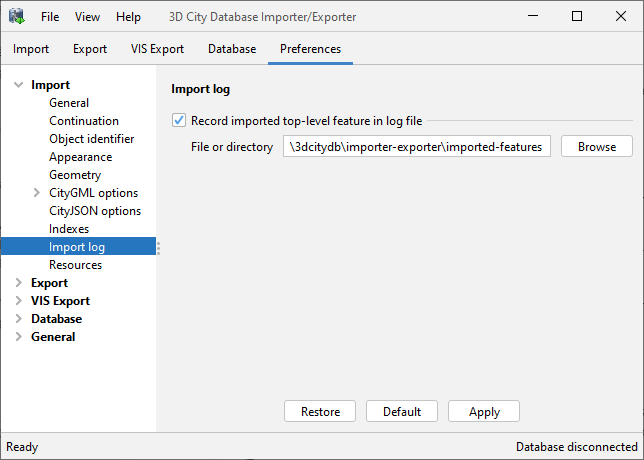
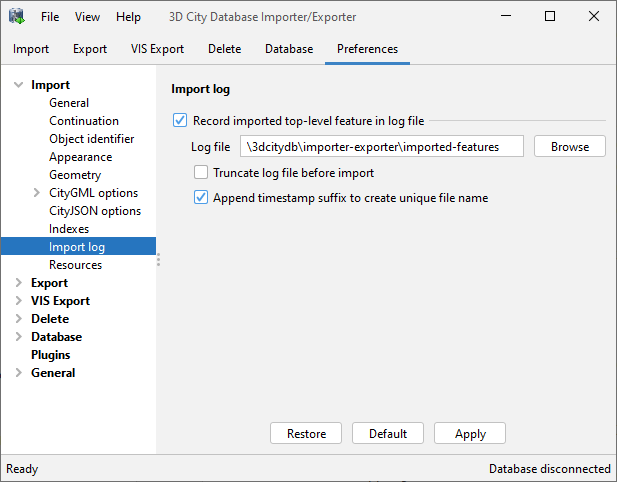
documented latest changes of Importer/Exporter

diff --git a/source/conf.py b/source/conf.py
@@ -64,9 +64,9 @@ author = '3DCityDB Team'
 # built documents.
 #
 # The short X.Y version.
-version = '2021.1'
+version = '2021.2'
 # The full version, including alpha/beta/rc tags.
-release = '2021.1.0'
+release = '2021.2.0'
 
 # The language for content autogenerated by Sphinx. Refer to documentation
 # for a list of supported languages.

diff --git a/source/impexp/cli/import.rst b/source/impexp/cli/import.rst
@@ -7,25 +7,26 @@ Import command
 
 .. code-block:: bash
 
-   impexp import [-hV] [--ade-extensions=<folder>] [-c=<file>]
-                 [--import-log=<file>] [--input-encoding=<encoding>]
-                 [--log-file=<file>] [--log-level=<level>]
-                 [--pid-file=<file>] [--plugins=<folder>]
-                 [--use-plugin=<plugin[=true|false]>[,<plugin[=true|false]
-                 >...]]... [--worker-threads=<threads[,max]>]
-                 [[--creation-date=<mode>] [--termination-date=<mode>]
-                 [--lineage=<lineage>] [--updating-person=<name>]
-                 [--reason-for-update=<reason>] [--use-metadata-from-file]]
-                 [[[-t=<[prefix:]name>[,<[prefix:]name>...]]...
-                 [--namespace=<prefix=name>[,<prefix=name>...]]...] [-i=<id>
-                 [,<id>...] [-i=<id>[,<id>...]]...] [-b=<minx,miny,maxx,maxy
-                 [,srid]> [--bbox-mode=<mode>]] [[--count=<count>]
+   impexp import [-hV] [--[no-]fail-fast] [--ade-extensions=<folder>]
+                 [-c=<file>] [--import-log=<file>]
+                 [--input-encoding=<encoding>] [--log-file=<file>]
+                 [--log-level=<level>] [--pid-file=<file>]
+                 [--plugins=<folder>] [--use-plugin=<plugin[=true|false]>[,
+                 <plugin[=true|false]>...]]... [--worker-threads=<threads[,
+                 max]>] [[--creation-date=<mode>]
+                 [--termination-date=<mode>] [--lineage=<lineage>]
+                 [--updating-person=<name>] [--reason-for-update=<reason>]
+                 [--use-metadata-from-file]] [[[-t=<[prefix:]name>[,<
+                 [prefix:]name>...]]... [--namespace=<prefix=name>[,
+                 <prefix=name>...]]...] [-i=<id>[,<id>...] [-i=<id>[,
+                 <id>...]]...] [-b=<minx,miny,maxx,maxy[,srid]>
+                 [--bbox-mode=<mode>]] [[--count=<count>]
                  [--start-index=<index>]] [[--no-appearance]]] [-f=<file>
                  [-m=<mode>] [-w] [[-n=<name>] [-I=<index>] [--[no-]header]
                  [-D=<string>] [-Q=<char>] [--quote-escape=<char>]
                  [-M=<char>] [--csv-encoding=<encoding>]]] [[-T=<database>]
-                 -H=<host> [-P=<port>] -d=<name> [-S=<schema>] -u=<name> [-p
-                 [=<password>]]] [@<filename>...] <file>...
+                 [-H=<host>] [-P=<port>] [-d=<name>] [-S=<schema>]
+                 [-u=<name>] [-p[=<password>]]] [@<filename>...] <file>...
 
 **Description**
 
@@ -56,8 +57,14 @@ containing these settings.
 .. option:: --import-log=<file>
 
    If you want an import log to be created for all top-level features loaded in the database,
-   provide the path to the import log file with this option. More information about the
-   import log can be found in :numref:`impexp_import_preferences_import_log`.
+   provide the path to the import log file with this option. Note that log file will be *truncated*
+   in case it already exists. More information about the import log can be found in
+   :numref:`impexp_import_preferences_import_log`.
+
+.. option:: --[no-]fail-fast
+
+   Flag to indicate whether to fail fast on errors and to immediately cancel the import
+   process (default: true).
 
 .. option:: --worker-threads=<threads[,max]>
 

diff --git a/source/impexp/import-preferences/import-log.rst b/source/impexp/import-preferences/import-log.rst
@@ -10,7 +10,7 @@ imported features. Also, in case the import procedure aborts early
 (either requested by the user or caused by severe errors), not
 all input features might have been processed. To understand which
 top-level features were actually loaded into the database during an
-import session, the user can choose to let the Importer/Exporter create
+import session, a user can choose to let the Importer/Exporter create
 an *import log*.
 
 .. figure:: /media/impexp_import_preferences_log_fig.png
@@ -20,14 +20,25 @@ an *import log*.
    Import preferences – Import log.
 
 Simply enable the checkbox on this settings dialog to activate import
-logs (disabled per default). You additionally must provide a folder
-where the import log files will be created in. Either type the folder
-name manually or use the *Browse* button to open a file selection
-dialog. The timestamp of the import session is used to
-create unique filenames for the log files inside this folder
-according to following pattern:
+logs (disabled per default). You additionally must provide the full path
+to the log file that shall be used to record the imported features. Either type the
+file name manually or use the *Browse* button to open a file selection
+dialog. The following modes for creating the log file are supported:
 
-``imported-features-yyyy_MM_dd-HH_mm_ss_SSS.log``
+1. To ensure that every import operation uses a **unique file name** for the import
+   log, you can choose to let the import process append a timestamp of the form
+   ``yyyy-MM-dd_HH-mm-ss-SSS`` as suffix to the provided file name (default option).
+   This way, every import operation will automatically be recorded in a separate log file.
+   For example, when choosing ``import.log`` as file name, the import log will be
+   stored in:
+
+   ``import-yyyy-MM-dd_HH-mm-ss-SSS.log``
+
+2. When disabling the default option, all import operations are **logged into the same file**.
+   By default, new log entries are *appended* to the end of the file so that entries
+   from previous import operations are not lost. You can alternatively choose to *truncate* the log
+   file before every import operation by checking the corresponding option. Use
+   this option with care.
 
 The import log is a simple CSV file with one record (line) per imported
 top-level feature. The following figure shows an example.
@@ -59,7 +70,7 @@ the header line. The meaning of the fields is as follows.
    * - | CITYOBJECT_ID
      - | The value of the ID column (primary key) of the CITYOBJECT table where the feature was inserted.
    * - | GMLID_IN_FILE
-     - | The original object identifier of the feature in the input file (might differ in database due to import settings).
+     - | The original object identifier of the feature in the input file. Note: the GMLID in the database might differ from the original identifier due to import settings.
    * - | INPUT_FILE
      - | The path of the input file from which the feature was imported.
 

diff --git a/source/impexp/cli/export.rst b/source/impexp/cli/export.rst
@@ -7,9 +7,9 @@ Export command
 
 .. code-block:: bash
 
-   impexp export [-hV] [--ade-extensions=<folder>] [-c=<file>]
-                 [--compressed-format=<format>] [--log-file=<file>]
-                 [--log-level=<level>] -o=<file>
+   impexp export [-hV] [--[no-]fail-fast] [--ade-extensions=<folder>]
+                 [-c=<file>] [--compressed-format=<format>]
+                 [--log-file=<file>] [--log-level=<level>] -o=<file>
                  [--output-encoding=<encoding>] [--pid-file=<file>]
                  [--plugins=<folder>] [--use-plugin=<plugin[=true|false]>[,
                  <plugin[=true|false]>...]]... [--worker-threads=<threads[,
@@ -23,8 +23,8 @@ Export command
                  <0..4>...] [-l=<0..4>[,<0..4>...]]... [--lod-mode=<mode>]
                  [--lod-search-depth=<0..n|all>]] [[--no-appearance] |
                  -a=<theme>[,<theme>...] [-a=<theme>[,<theme>...]]...]
-                 [-s=<select>] [-q=<xml>]] [[-T=<database>] -H=<host>
-                 [-P=<port>] -d=<name> [-S=<schema>] -u=<name> [-p
+                 [-s=<select>] [-q=<xml>]] [[-T=<database>] [-H=<host>]
+                 [-P=<port>] [-d=<name>] [-S=<schema>] [-u=<name>] [-p
                  [=<password>]]] [@<filename>...]
 
 **Description**
@@ -56,6 +56,11 @@ containing these settings.
 
    For compressed exports using GZIP or ZIP, specify the output format to use for encoding the data.
    Allowed values are ``citygml`` and ``cityjson``.
+
+.. option:: --[no-]fail-fast
+
+   Flag to indicate whether to fail fast on errors and to immediately cancel the export
+   process (default: true).
 
 .. option:: --worker-threads=<threads[,max]>
 

diff --git a/source/first-steps/system-requirements.rst b/source/first-steps/system-requirements.rst
@@ -40,9 +40,9 @@ Java 8 and higher. The recommended version for running the Importer/Exporter
 is **Java 11**. The tool has been successfully tested on (but is not
 limited to) the following operating systems:
 
--  Microsoft Windows XP, Vista, 7, 8, 10;
+-  Microsoft Windows XP, Vista, 7, 8, 10, 11;
 -  Apple Mac OS X and macOS;
--  Ubuntu Linux 9 to 20.
+-  Ubuntu Linux 9 to 21.
 
 Prior to the setup of the Importer/Exporter tool, a Java Runtime
 Environment (JRE) **must be installed on your system**. Java
@@ -53,10 +53,14 @@ that are free to download and use:
 - `Eclipse Temurin <https://adoptium.net/>`_
 - `Amazon Coretto <https://aws.amazon.com/corretto/>`_
 - `OpenJDK <https://openjdk.java.net/>`_
+- `Oracle Java 17 LTS <https://www.oracle.com/java/technologies/downloads/>`_
 
 
-Follow the installation instructions for your operating system. Java binaries
-from other vendors like Oracle Java, Azul Zulu or Red Hat OpenJDK might require
+Follow the installation instructions for your operating system. Note that
+starting from Java 17 long-term support (LTS) version, `Oracle Java` is
+again released under a no-fee and free-to-use license, while use of previous versions
+of Oracle Java remains restricted to a fee-based subscription license. Likewise, Java binaries
+from other vendors like Azul Zulu or Red Hat OpenJDK might require
 a license for commercial use or access to updates. Please carefully review
 the license terms and conditions of use provided by the vendors.
 

diff --git a/source/impexp/export.rst b/source/impexp/export.rst
@@ -130,10 +130,14 @@ allowed elements of the query language. The *copy query* button |copy_query_icon
 settings made for the simple filters to an XML query representation.
 The results of both actions can therefore be used as starting
 point for defining your own query expression. The *validate query*
-button |validate_query_icon| [2] performs a validation of the query entered in [1]
+button |validate_query_icon| performs a validation of the query entered in [1]
 and prints the validation report to the console window. Only valid query
-expressions are accepted by the export operation. The *Simpe filter*
-button [3] takes you back to the simple filter dialog.
+expressions are accepted by the export operation. Finally, the *generate SQL*
+button |query_to_sql_icon| translates the XML query to a SQL ``SELECT`` statement
+that you can directly copy and use with a database client. Note that you must
+first connect to a 3DCityDB instance before you can create the SQL expression.
+
+The *Simpe filter* button [3] takes you back to the simple filter dialog.
 
 .. note::
   You can also use an external XML editor to write query expressions.
@@ -234,3 +238,5 @@ process at any time.
 .. |copy_query_icon| image:: /media/copy_query.svg
 
 .. |validate_query_icon| image:: /media/validate_query.svg
+
+.. |query_to_sql_icon| image:: /media/query_to_sql.svg

diff --git a/source/impexp/export-preferences/general.rst b/source/impexp/export-preferences/general.rst
@@ -37,6 +37,12 @@ operation should deal with error situations during database exports. By default,
 export operation to continue on errors and complete the export process if possible. The errors
 encountered during the export process are always recorded in the log in both cases.
 
+By default, the export operation first *computes the number top-level objects* [1] matching
+the provided filters on the *Export* tab before starting the export process. This number is
+printed to the log and also used to render a progress bar for the export operation. However,
+computing this number can take a long time on large databases. Thus, this option can be disabled
+so that the export process starts immediately instead.
+
 As described in :numref:`impexp_citygml_export_chapter`, the export operation
 supports using compressed output formats like GZIP and ZIP, which helps to keep file
 sizes small. You can choose whether *CityGML* (default) or *CityJSON* shall

diff --git a/source/impexp/cli/delete.rst b/source/impexp/cli/delete.rst
@@ -23,9 +23,9 @@ Delete command
                  [-q=<xml>]] [-f=<file> [-w] [[-C=<type>] [[-n=<name>]
                  [-I=<index>] [--[no-]header] [-D=<string>] [-Q=<char>]
                  [--quote-escape=<char>] [-M=<char>]
-                 [--csv-encoding=<encoding>]]]] [[-T=<database>] -H=<host>
-                 [-P=<port>] -d=<name> [-S=<schema>] -u=<name> [-p
-                 [=<password>]]] [@<filename>...]
+                 [--csv-encoding=<encoding>]]]] [[-T=<database>]
+                 [-H=<host>] [-P=<port>] [-d=<name>] [-S=<schema>]
+                 [-u=<name>] [-p[=<password>]]] [@<filename>...]
 
 **Description**
 

diff --git a/source/impexp/cli/export-vis.rst b/source/impexp/cli/export-vis.rst
@@ -27,8 +27,8 @@ Visualization export command
                      [--gltf-draco-compression] [-m]] [[-A=<mode>]
                      [-O=<number|globe|generic>]
                      [--google-elevation-api=<api-key>]
-                     [--transform-height]] [[-T=<database>] -H=<host>
-                     [-P=<port>] -d=<name> [-S=<schema>] -u=<name> [-p
+                     [--transform-height]] [[-T=<database>] [-H=<host>]
+                     [-P=<port>] [-d=<name>] [-S=<schema>] [-u=<name>] [-p
                      [=<password>]]] [@<filename>...]
 
 **Description**

diff --git a/source/impexp/database.rst b/source/impexp/database.rst
@@ -56,11 +56,11 @@ details.
 
 .. note::
    With this version of the Importer/Exporter, you will be able to
-   **connect to version 4.1.x to 3.0 instances** of the 3D City Database
+   connect to versions |3dcitydb_version| to 3.0 instances of the 3D City Database
    **but not to any previous or later version**.
    See :numref:`first_steps_migration_chapter` for a guide on how
    to migrate a version 2 and 3 instances of the 3D City Database to the
-   latest version 4.1.
+   latest version |3dcitydb_version|.
 
 **Connection messages**
 

diff --git a/source/impexp/gui.rst b/source/impexp/gui.rst
@@ -35,7 +35,8 @@ following tabs are available:
 .. note::
    If you have installed plugins, the tab menu may contain
    additional entries. Please refer to the documentation of your plugin in
-   this case.
+   this case. The installed plugins can be managed on the *Preferences*
+   tab (cf. :numref:`impexp_preferences_plugins`)
 
 The main menu bar [1] offers the entries File, View, and Help. The **File menu** lets a user
 store and load application settings from a config file and close the application.

diff --git a/source/impexp/cli/help.rst b/source/impexp/cli/help.rst
@@ -11,7 +11,7 @@ Help command
                [--log-file=<file>] [--log-level=<level>]
                [--pid-file=<file>] [--plugins=<folder>]
                [--use-plugin=<plugin[=true|false]>[,<plugin[=true|false]
-               >...]]... [COMMAND...]
+               >...]]... [@<filename>...] [COMMAND...]
 
 **Description**
 
